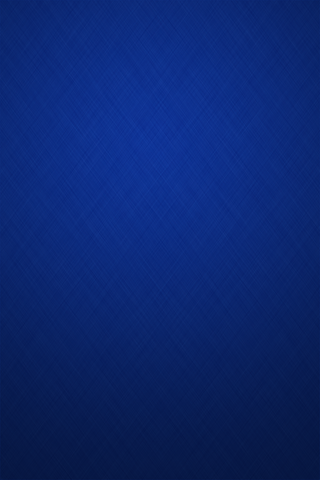
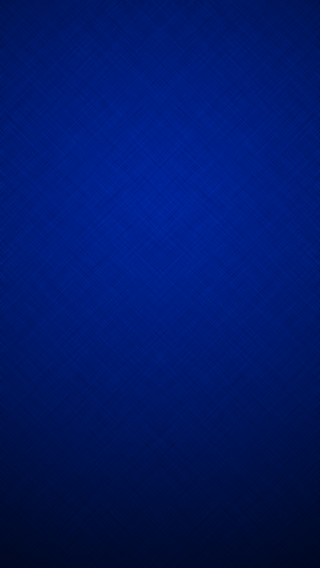
iOS7 adaptation + minor changes

diff --git a/al7ios/al7framework/Utilities/ALDateUtilities.m b/al7ios/al7framework/Utilities/ALDateUtilities.m
@@ -43,25 +43,17 @@
     return [ALDateUtilities getFormattedDateStringWithDate:aDate andDateFormat:@"MM-dd-yyyy"];
 }
 
-+(NSDate *)dateWithYear:(NSInteger)year month:(NSInteger)month day:(NSInteger)day hours:(NSInteger)hours minutes:(NSInteger)minutes period:(ALDateTimePeriod)period {
-    NSString *yearString, *monthString, *dayString, *hourString, *minutesString, *periodString;
++(NSDate *)dateWithYear:(NSInteger)year
+                  month:(NSInteger)month
+                    day:(NSInteger)day
+                  hours:(NSInteger)hours
+                minutes:(NSInteger)minutes
+                 period:(ALDateTimePeriod)period {
     
-    if (year < 1970) {
-        year = 1970;
-    }
-    yearString = [NSString stringWithFormat:@"%i", year];
-    
-    if (month < 1) {
-        month = 1;
-    }
-    else if (month > 12) {
-        month = 12;
-    }
-    monthString = [NSString stringWithFormat:@"%i", month];
-    
-    if (day < 1) {
-        day = 1;
-    }
+    year = (year < 1970) ? 1970 : year;
+    month = (month < 1) ? 1 : month;
+    month = (month > 12) ? 12 : month;
+    day = (day < 1) ? 1: day;
     
     if (month == 1 ||
         month == 3 ||
@@ -94,37 +86,35 @@
             }
         }
     }
-    dayString = [NSString stringWithFormat:@"%i", day];
     
-    if (hours > 12) {
-        hours = 12;
-    }
-    else if (hours < 1) {
-        hours = 1;
-    }
-    hourString = [NSString stringWithFormat:@"%i", hours];
+    hours = (hours > 12) ? 12 : hours;
+    hours = (hours < 1) ? 1 : hours;
     
-    if (minutes < 0) {
-        minutes = 0;
-    }
-    if (minutes > 59) {
-        minutes = 59;
-    }
-    minutesString = [NSString stringWithFormat:@"%i", minutes];
-    
+    minutes = (minutes < 0) ? 0 : minutes;
+    minutes = (minutes > 59) ? 59 : minutes;
+
     switch (period) {
         case ALDateTimePeriodAM:
-            periodString = @"AM";
+            hours = (hours == 12) ? 0 : hours;
             break;
         case ALDateTimePeriodPM:
-            periodString = @"PM";
-            break;
-        default:
-            periodString = @"AM";
+            hours += 12;
             break;
     }
-    NSString *formattedDateString = [NSString stringWithFormat:@"%@-%@-%@ %@:%@ %@", yearString, monthString, dayString, hourString, minutesString, periodString];
-    return [ALDateUtilities getDateFromFormattedDateString:formattedDateString];
+    
+    NSCalendar *calendar = [NSCalendar currentCalendar];
+    [calendar setTimeZone:[NSTimeZone systemTimeZone]];
+    
+    NSDateComponents *dateComponents = [[NSDateComponents alloc] init];
+    [dateComponents setYear:year];
+    [dateComponents setMonth:month];
+    [dateComponents setDay:day];
+    [dateComponents setHour:hours];
+    [dateComponents setMinute:minutes];
+    [dateComponents setSecond:0];
+    [dateComponents setTimeZone:[calendar timeZone]];
+    
+    return [calendar dateFromComponents:dateComponents];
 }
 
 +(NSDate *)dateWithYear:(NSInteger)year month:(NSInteger)month day:(NSInteger)day {

diff --git a/al7ios/Application/Demo/Base/DemoBaseViewController.m b/al7ios/Application/Demo/Base/DemoBaseViewController.m
@@ -29,13 +29,16 @@
 #pragma mark - View Lifecycle;
 
 -(void)loadView {
-    [self setView:[[UIView alloc] initWithFrame:[[UIScreen mainScreen] applicationFrame]]];
+    BOOL isIos7 = SYSTEM_VERSION_GREATER_THAN_OR_EQUAL_TO(@"7.0");
+    
+    [self setView:[[UIView alloc] initWithFrame:(isIos7) ? [[UIScreen mainScreen] bounds] : [[UIScreen mainScreen] applicationFrame]]];
     [[self view] setBackgroundColor:[UIColor blackColor]];
     
     UIImageView *backgroundView = [[UIImageView alloc] initWithImage:[UIImage imageNamed:@"Demo_Bg.png"]];
     [[self view] addSubview:backgroundView];
+    [backgroundView centerInSuperview];
     
-    UILabel *headerLabel = [[UILabel alloc] initWithFrame:CGRectMake(5.0, 0.0, 310.0, 30.0)];
+    UILabel *headerLabel = [[UILabel alloc] initWithFrame:CGRectMake(5.0, (isIos7) ? 20.0 : 0.0, 310.0, 30.0)];
     [headerLabel setFont:[UIFont fontWithName:@"HelveticaNeue-Bold" size:18.0]];
     [headerLabel setTextAlignment:NSTextAlignmentCenter];
     [headerLabel setBackgroundColor:[UIColor clearColor]];
@@ -45,13 +48,20 @@
     [headerLabel setText:[self headerText]];
     [[self view] addSubview:headerLabel];
     
-    CGRect contentViewFrame = CGRectMake(5.0, 30.0, 310.0, [[self view] frame].size.height - 90.0);
+    CGRect contentViewFrame = CGRectZero;
+    CGFloat heightCompensation = (isIos7) ? 110.0 : 90.0;
+    contentViewFrame.origin.x = 5.0;
+    contentViewFrame.origin.y = [headerLabel frame].origin.y + [headerLabel frame].size.height;
+    contentViewFrame.size.width = 310.0;
+    contentViewFrame.size.height = [[self view] frame].size.height - heightCompensation;
+    
     UIView *contentView = [[UIView alloc] initWithFrame:contentViewFrame];
     [self buildViewHierarchyInView:contentView];
     [[self view] addSubview:contentView];
     
     UIButton *okButton = [UIButton buttonWithType:UIButtonTypeRoundedRect];
     [okButton setTitle:@"Ok" forState:UIControlStateNormal];
+    [okButton setTitleColor:[UIColor blackColor] forState:UIControlStateNormal];
     [okButton addTarget:self action:@selector(onOkTouch:) forControlEvents:UIControlEventTouchUpInside];
 
     CGRect okButtonFrame = CGRectMake(0.0, 0.0, 300.0, 40.0);
@@ -59,6 +69,11 @@
     okButtonFrame.origin.y = [[self view] frame].size.height - (okButtonFrame.size.height + 10.0);
     [okButton setFrame:okButtonFrame];
     [[self view] addSubview:okButton];
+    
+    if (isIos7) {
+        [okButton setBackgroundColor:[UIColor rgbColorWithRed:0 green:204 blue:0 alpha:1.0]];
+        [okButton setTitleColor:[UIColor whiteColor] forState:UIControlStateNormal];
+    }
 }
 
 #pragma mark - Overridable Methods;

diff --git a/al7ios/Application/LaunchPad/LaunchPadController.m b/al7ios/Application/LaunchPad/LaunchPadController.m
@@ -55,8 +55,10 @@
 #pragma mark - View lifecycle
 
 // Implement loadView to create a view hierarchy programmatically, without using a nib.
-- (void)loadView {  
-    UIView *myView = [[UIView alloc] initWithFrame:[[UIScreen mainScreen] applicationFrame]];
+- (void)loadView {
+    BOOL isIos7 = SYSTEM_VERSION_GREATER_THAN_OR_EQUAL_TO(@"7.0");
+    
+    UIView *myView = [[UIView alloc] initWithFrame:(isIos7) ? [[UIScreen mainScreen] bounds] : [[UIScreen mainScreen] applicationFrame]];
     [myView setBackgroundColor:[ALColorUtilities rgbColorWithRed:0 green:51 blue:153 alpha:1.0]];
     [self setView:myView];
 
@@ -68,7 +70,10 @@
     [pickerView setDelegate:self];
     [pickerView setShowsSelectionIndicator:YES];
     [pickerView selectRow:selectedScreenIndex inComponent:0 animated:YES];
-    [ALLayoutUtilities moveView:pickerView toPosition:CGPointMake(0.0, [myView frame].size.height - [pickerView frame].size.height - 85.0)];
+    [pickerView moveToPosition:CGPointMake(0.0, [myView frame].size.height - [pickerView frame].size.height - 85.0)];
+    if (isIos7) {
+        [pickerView setBackgroundColor:[UIColor whiteColor]];
+    }
     [[self view] addSubview:pickerView];
     
     UIFont *labelFont = [UIFont fontWithName:@"TrebuchetMS-Bold" size:16.0];
@@ -104,6 +109,16 @@
     [memButton setTitle:@"MEM" forState:UIControlStateNormal];
     [memButton addTarget:self action:@selector(onMemButtonTouch:) forControlEvents:UIControlEventTouchUpInside];
     [[self view] addSubview:memButton];
+    
+    if (isIos7) {
+        for (UIView *view in [[self view] subviews]) {
+            if ([view isKindOfClass:[UIButton class]]) {
+                UIButton *button = (UIButton *)view;
+                [button setBackgroundColor:[UIColor whiteColor]];
+                [button setTitleColor:[UIColor blackColor] forState:UIControlStateNormal];
+            }
+        }
+    }
 }
 
 - (void)viewDidUnload

diff --git a/al7ios/Application/Demo/FlipView/DemoFlipViewController.m b/al7ios/Application/Demo/FlipView/DemoFlipViewController.m
@@ -22,6 +22,8 @@
 #pragma mark - Base Overrides;
 
 -(void)buildViewHierarchyInView:(UIView *)contentView {
+    BOOL isIos7 = SYSTEM_VERSION_GREATER_THAN_OR_EQUAL_TO(@"7.0");
+    
     UIImageView *demoImageView01 = [[UIImageView alloc] initWithImage:[UIImage imageNamed:@"img_flipview_demo_01.png"]];
     UIImageView *demoImageView02 = [[UIImageView alloc] initWithImage:[UIImage imageNamed:@"img_flipview_demo_02.png"]];
     NSArray *flipViews = [NSArray arrayWithObjects:demoImageView01, demoImageView02, nil];
@@ -42,11 +44,19 @@
     [segmentedControl setFrame:CGRectMake(5.0, [contentView frame].size.height - 80.0, 300.0, 30.0)];
     [segmentedControl setSelectedSegmentIndex:0];
     [segmentedControl addTarget:self action:@selector(onSelectedSegmentIndexChange:) forControlEvents:UIControlEventValueChanged];
+    if (isIos7) {
+        [segmentedControl setTintColor:[UIColor whiteColor]];
+    }
+    
     [contentView addSubview:segmentedControl];
     
     UIButton *flipButton = [UIButton buttonWithType:UIButtonTypeRoundedRect];
     [flipButton setFrame:CGRectMake(5.0, [contentView frame].size.height - 40.0, 300.0, 40.0)];
     [flipButton setTitle:@"Flip!" forState:UIControlStateNormal];
+    if (isIos7) {
+        [flipButton setBackgroundColor:[UIColor whiteColor]];
+        [flipButton setTitleColor:[UIColor blackColor] forState:UIControlStateNormal];
+    }
     [flipButton addTarget:self action:@selector(onFlipButtonTouch:) forControlEvents:UIControlEventTouchUpInside];
     [contentView addSubview:flipButton];
 }

diff --git a/al7ios/Application/Demo/Tooltip/DemoTooltipController.m b/al7ios/Application/Demo/Tooltip/DemoTooltipController.m
@@ -25,6 +25,8 @@
 #pragma mark - Base Overrides;
 
 -(void)buildViewHierarchyInView:(UIView *)contentView {
+    BOOL isIos7 = SYSTEM_VERSION_GREATER_THAN_OR_EQUAL_TO(@"7.0");
+    
     UIImageView *tooltipImageView = [[UIImageView alloc] initWithImage:[UIImage imageNamed:@"img_tooltip_demo_iphone.png"]];
     
     //-- This is how you create a basic text content view;
@@ -50,6 +52,9 @@
     [tooltipColorControl setSelectedSegmentIndex:0];
     [tooltipColorControl setTintColor:[UIColor rgbColorWithRed:0 green:51 blue:153 alpha:1.0]];
     [tooltipColorControl setFrame:CGRectMake(5.0, 340.0, 300.0, 25.0)];
+    if (isIos7) {
+        [tooltipColorControl setTintColor:[UIColor whiteColor]];
+    }
     [tooltipColorControl addTarget:self action:@selector(onColorSegmentChange:) forControlEvents:UIControlEventValueChanged];
     [contentView addSubview:tooltipColorControl];   
 }

diff --git a/al7ios/ALConstants.h b/al7ios/ALConstants.h
@@ -1,0 +1,5 @@
+#define SYSTEM_VERSION_EQUAL_TO(v)                  ([[[UIDevice currentDevice] systemVersion] compare:v options:NSNumericSearch] == NSOrderedSame)
+#define SYSTEM_VERSION_GREATER_THAN(v)              ([[[UIDevice currentDevice] systemVersion] compare:v options:NSNumericSearch] == NSOrderedDescending)
+#define SYSTEM_VERSION_GREATER_THAN_OR_EQUAL_TO(v)  ([[[UIDevice currentDevice] systemVersion] compare:v options:NSNumericSearch] != NSOrderedAscending)
+#define SYSTEM_VERSION_LESS_THAN(v)                 ([[[UIDevice currentDevice] systemVersion] compare:v options:NSNumericSearch] == NSOrderedAscending)
+#define SYSTEM_VERSION_LESS_THAN_OR_EQUAL_TO(v)     ([[[UIDevice currentDevice] systemVersion] compare:v options:NSNumericSearch] != NSOrderedDescending)

diff --git a/al7ios/ALAppDelegate.m b/al7ios/ALAppDelegate.m
@@ -18,7 +18,7 @@
     [[UIApplication sharedApplication] setStatusBarStyle:UIStatusBarStyleBlackOpaque animated:YES];
     [self setWindow:[[UIWindow alloc] initWithFrame:[[UIScreen mainScreen] bounds]]];
     [self setLaunchPadController:[[LaunchPadController alloc] init]];
-    [[self window] addSubview:[[self launchPadController] view]];
+    [[self window] setRootViewController:[self launchPadController]];
     [[self window] setBackgroundColor:[UIColor blackColor]];
     [[self window] makeKeyAndVisible];
     return YES;
